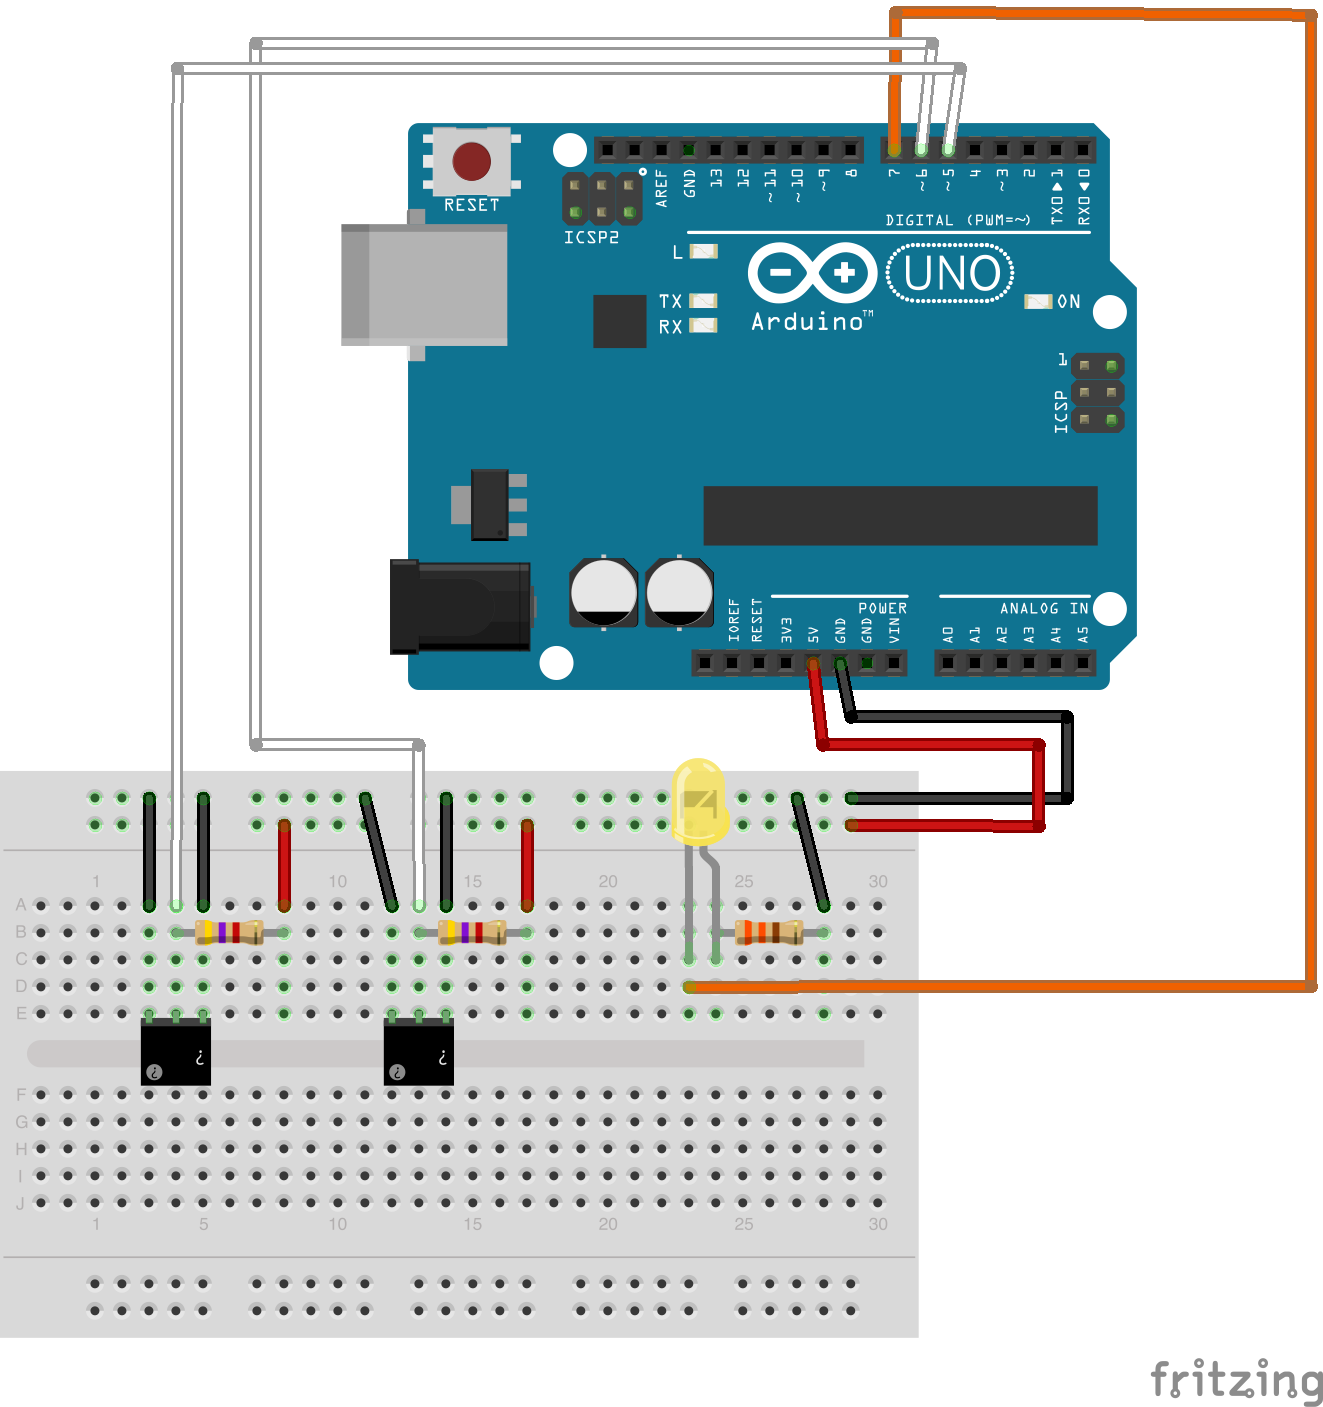
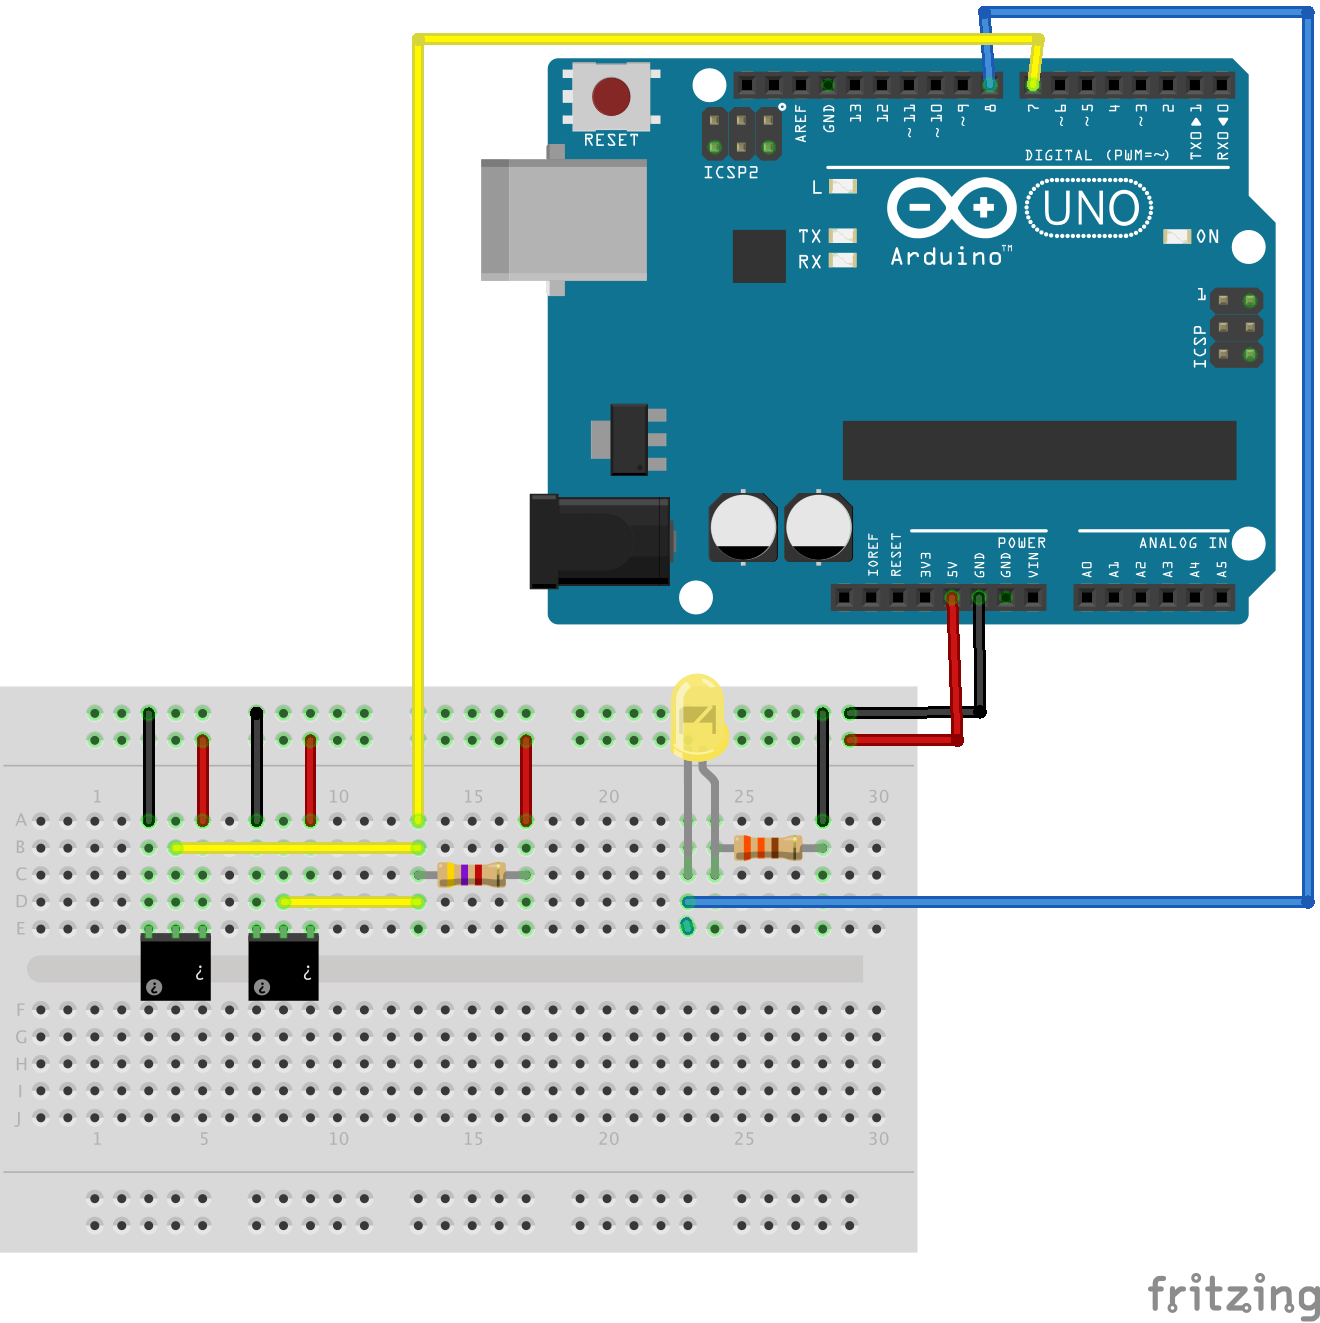
Update images etc for single wire bus

diff --git a/README.md b/README.md
@@ -7,8 +7,6 @@ ethernet with poe shield (providing both network and power).
 
 ### Circuit
 
-Updated to use parasitic power for the sensors (connect the plus wire of the sensor to ground).
-
 ![Circuit diagram](circuit.png)
 
 ![Layout](layout.png)
@@ -17,7 +15,8 @@ Updated to use parasitic power for the sensors (connect the plus wire of the sen
 
 This is the arduino sketch for the project.
 
-Heavily based on [this tutorial from raywenderlich.com](http://www.raywenderlich.com/38841/arduino-tutorial-temperature-sensor)
+Heavily based on [this tutorial from raywenderlich.com](http://www.raywenderlich.com/38841/arduino-tutorial-temperature-sensor),
+updated based on [this wiki page](http://arduino-info.wikispaces.com/Brick-Temperature-DS18B20) for multiple devices on one bus
 but returning output suitable for munin instead of JSON.
 
 ### munin
@@ -32,3 +31,11 @@ The libraries are from:
 
 * http://milesburton.com/Main_Page?title=Dallas_Temperature_Control_Library - currently using 372Beta (this is the same zip - just rezipped to remove hyphens from the folder name - which was invalid at import)
 * http://www.pjrc.com/teensy/td_libs_OneWire.html - OneWire 2
+
+### fritzing
+
+Source file for fritzing to generate layout image.
+
+### mccad
+
+Source file for McCad Schematics_Lite to generate circuit image.
